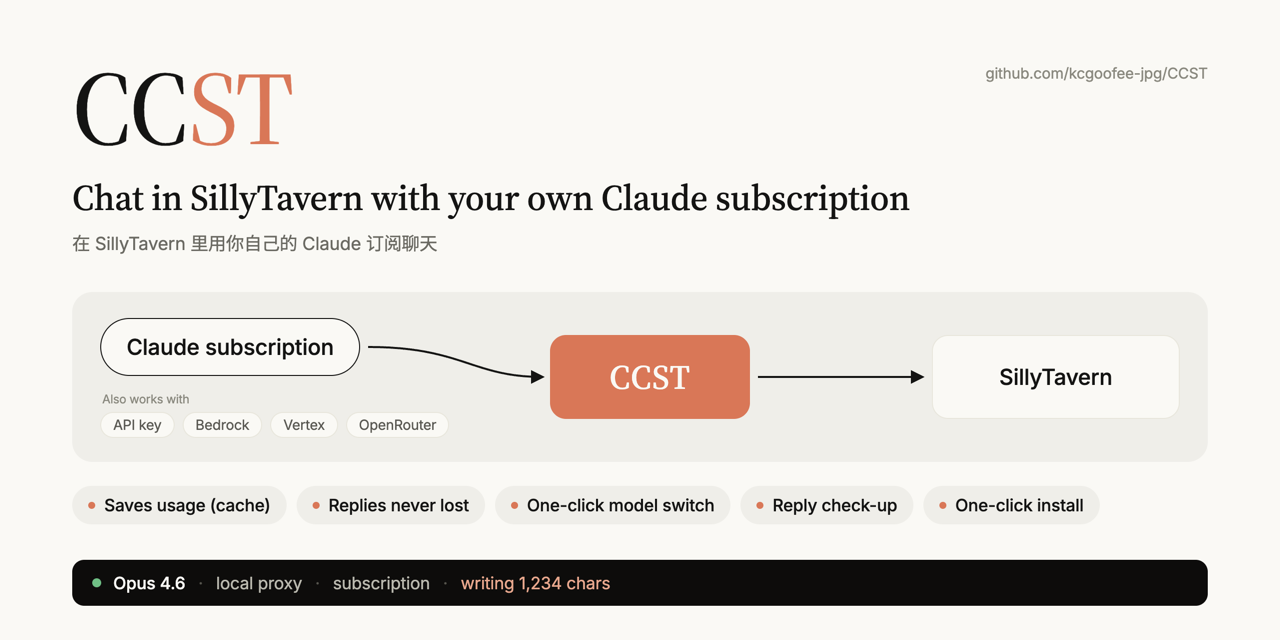
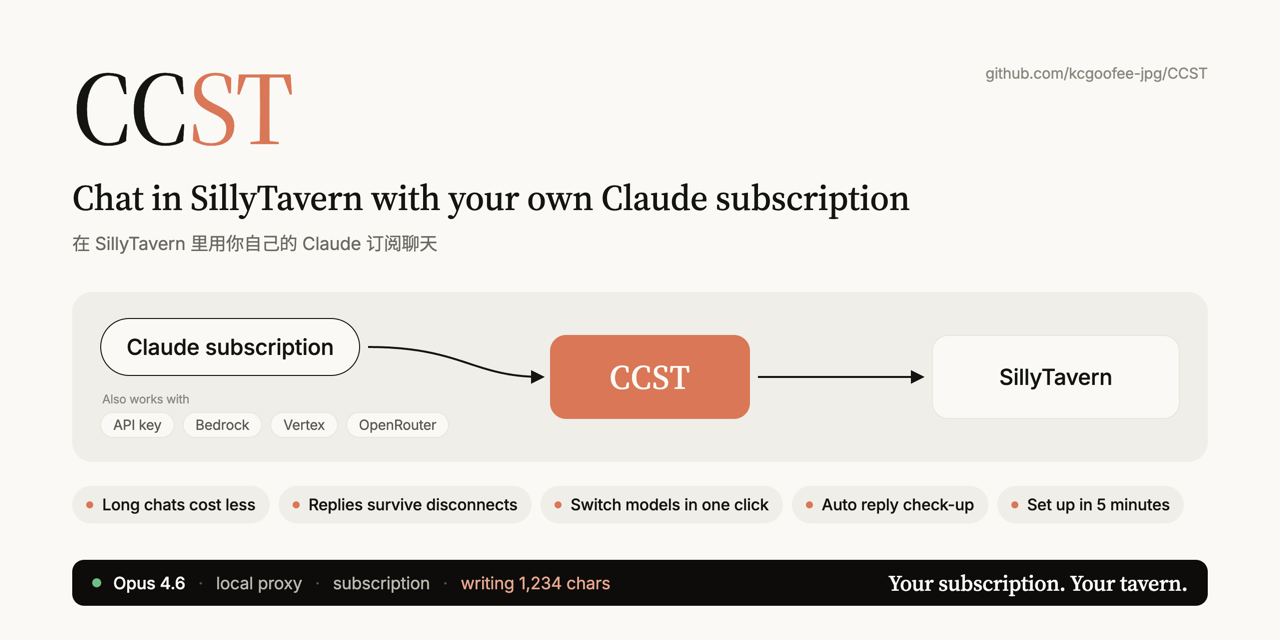
docs(cover): v4 特性标签改为并列的收益短语，状态栏右侧加口号；README 特性网格同步

Changed region(s): [[0.0625, 0.7812, 0.9062, 0.8125], [0.6875, 0.9062, 0.9375, 0.9375]]

diff --git a/docs/assets/cover.html b/docs/assets/cover.html
@@ -23,13 +23,14 @@ svg.arrows{position:absolute;left:0;top:0;width:1136px;height:170px}
 .node{position:absolute;top:43px;height:84px;border-radius:16px;display:flex;align-items:center;justify-content:center;font-weight:500}
 .ccst{left:478px;width:200px;background:#D97757;color:#FAF9F5;font-family:var(--serif);font-size:34px;letter-spacing:.02em}
 .st{left:860px;width:248px;background:#FAF9F5;border:1px solid #E8E6DC;font-size:22px}
-.chips{position:absolute;left:72px;top:486px;display:flex;gap:10px}
-.chip{padding:9px 16px;border-radius:999px;background:#EFEEE9;font-size:17px;font-weight:500;display:flex;align-items:center}
+.chips{position:absolute;left:72px;top:486px;display:flex;gap:9px;white-space:nowrap}
+.chip{padding:9px 14px;border-radius:999px;background:#EFEEE9;font-size:16px;font-weight:500;display:flex;align-items:center}
 .chip:before{content:"";width:7px;height:7px;border-radius:50%;background:#D97757;margin-right:9px}
 .bar{position:absolute;left:72px;right:72px;bottom:34px;height:46px;border-radius:12px;background:#0D0C0B;display:flex;align-items:center;padding:0 20px;font-size:17px;color:#b9b8ae}
 .bar i{font-style:normal;color:#55544d;margin:0 13px}
 .bar .m{color:#FAF9F5;font-weight:500}
 .bar .w{color:#E8A78D}
+.slogan{margin-left:auto;font-family:var(--serif);font-size:22px;font-weight:500;color:#FAF9F5;letter-spacing:-.01em}
 .dot{width:9px;height:9px;border-radius:50%;background:#6FBF85;margin-right:12px}
 </style></head><body><div class="wrap">
 <div class="url">github.com/kcgoofee-jpg/CCST</div>
@@ -49,8 +50,8 @@ svg.arrows{position:absolute;left:0;top:0;width:1136px;height:170px}
 <div class="bar" id="bar"></div>
 </div>
 <script>
-const T={zh:{tag:"在 SillyTavern 里用你自己的 Claude 订阅聊天",sub:"Chat in SillyTavern with your own Claude subscription",main:"Claude 订阅",cap:"也支持",sec:["API 密钥","Bedrock","Vertex","OpenRouter"],one:false,st:"SillyTavern 酒馆",chips:["省额度（缓存）","回复不丢","一键切模型","回复体检","一键安装"],bar:["Opus 4.6","本机代理","订阅","写作中 1,234 字"]},
-en:{tag:"Chat in SillyTavern with your own Claude subscription",sub:"在 SillyTavern 里用你自己的 Claude 订阅聊天",main:"Claude subscription",cap:"Also works with",sec:["API key","Bedrock","Vertex","OpenRouter"],one:false,st:"SillyTavern",chips:["Saves usage (cache)","Replies never lost","One-click model switch","Reply check-up","One-click install"],bar:["Opus 4.6","local proxy","subscription","writing 1,234 chars"]}};
+const T={zh:{tag:"在 SillyTavern 里用你自己的 Claude 订阅聊天",sub:"Chat in SillyTavern with your own Claude subscription",main:"Claude 订阅",cap:"也支持",sec:["API 密钥","Bedrock","Vertex","OpenRouter"],one:false,st:"SillyTavern 酒馆",chips:["长聊更省额度","断线回复不丢","一键切换模型","回复自动体检","五分钟装好"],slogan:"你的订阅，你的酒馆。",bar:["Opus 4.6","本机代理","订阅","写作中 1,234 字"]},
+en:{tag:"Chat in SillyTavern with your own Claude subscription",sub:"在 SillyTavern 里用你自己的 Claude 订阅聊天",main:"Claude subscription",cap:"Also works with",sec:["API key","Bedrock","Vertex","OpenRouter"],one:false,st:"SillyTavern",chips:["Long chats cost less","Replies survive disconnects","Switch models in one click","Auto reply check-up","Set up in 5 minutes"],slogan:"Your subscription. Your tavern.",bar:["Opus 4.6","local proxy","subscription","writing 1,234 chars"]}};
 const q=new URLSearchParams(location.search).get("lang");
 const L=(q==="zh"||q==="en")?q:((navigator.language||"").toLowerCase().startsWith("zh")?"zh":"en");
 const t=T[L];document.documentElement.lang=L==="zh"?"zh-CN":"en";
@@ -58,5 +59,5 @@ const $=id=>document.getElementById(id);
 $("tag").textContent=t.tag;$("sub").textContent=t.sub;$("main").textContent=t.main;$("cap").textContent=t.cap;$("st").textContent=t.st;
 $("sec").innerHTML=t.sec.map(s=>"<span>"+s+"</span>").join("");
 $("chips").innerHTML=t.chips.map(s=>'<div class="chip">'+s+"</div>").join("");
-const b=t.bar;$("bar").innerHTML='<span class="dot"></span><span class="m">'+b[0]+"</span><i>·</i>"+b[1]+"<i>·</i>"+b[2]+'<i>·</i><span class="w">'+b[3]+"</span>";
+const b=t.bar;$("bar").innerHTML='<span class="dot"></span><span class="m">'+b[0]+"</span><i>·</i>"+b[1]+"<i>·</i>"+b[2]+'<i>·</i><span class="w">'+b[3]+'</span><span class="slogan">'+t.slogan+"</span>";
 </script></body></html>

diff --git a/README.en.md b/README.en.md
@@ -29,9 +29,9 @@ SillyTavern on its own only talks to pay-per-token APIs. CCST is a SillyTavern p
 
 | | |
 | --- | --- |
-| 🎟 **Use your subscription**<br>Claude Pro / Max, no separate API credit; API keys, Bedrock, Vertex and OpenRouter work too | 💰 **Saves usage**<br>In long chats only the new part of each turn is processed; the rest comes from the prompt cache |
-| 🛟 **Replies don't get lost**<br>Close the browser or drop the connection; the reply still finishes and is filled in later | 🔀 **One-click model switch**<br>Opus 5.5 / Opus 4.6 / Sonnet 5.5, thinking depth on demand |
-| 🩺 **Reply check-up**<br>Length, banned words, repeated paragraphs, character-card issues | 📦 **One-click install**<br>No terminal, no file editing; double-click |
+| 🎟 **Use your subscription**<br>Claude Pro / Max, no separate API credit; API keys, Bedrock, Vertex and OpenRouter work too | 💰 **Long chats cost less**<br>In long chats only the new part of each turn is processed; the rest comes from the prompt cache |
+| 🛟 **Replies survive disconnects**<br>Close the browser or drop the connection; the reply still finishes and is filled in later | 🔀 **Switch models in one click**<br>Opus 5.5 / Opus 4.6 / Sonnet 5.5, thinking depth on demand |
+| 🩺 **Auto reply check-up**<br>Length, banned words, repeated paragraphs, character-card issues | 📦 **Set up in 5 minutes**<br>No terminal, no file editing; double-click |
 
 The panel also shows your quota and per-turn usage.
 

diff --git a/README.md b/README.md
@@ -27,9 +27,9 @@
 
 | | |
 | --- | --- |
-| 🎟 **用订阅聊天**<br>Claude Pro / Max 直接用，不用另买额度；API 密钥、Bedrock、Vertex、OpenRouter 也行 | 💰 **自动省额度**<br>长聊天每轮只重算新内容，其余走缓存 |
-| 🛟 **回复不丢**<br>浏览器关了、断网了，回复照样写完，回来自动补上 | 🔀 **一键切模型**<br>Opus 5.5 / Opus 4.6 / Sonnet 5.5，思考深度随时调 |
-| 🩺 **回复体检**<br>字数、禁词、重复段落、角色卡问题，发送前后都查 | 📦 **一键安装**<br>不开终端、不改文件，双击就装好 |
+| 🎟 **用订阅聊天**<br>Claude Pro / Max 直接用，不用另买额度；API 密钥、Bedrock、Vertex、OpenRouter 也行 | 💰 **长聊更省额度**<br>长聊天每轮只重算新内容，其余走缓存 |
+| 🛟 **断线回复不丢**<br>浏览器关了、断网了，回复照样写完，回来自动补上 | 🔀 **一键切换模型**<br>Opus 5.5 / Opus 4.6 / Sonnet 5.5，思考深度随时调 |
+| 🩺 **回复自动体检**<br>字数、禁词、重复段落、角色卡问题，发送前后都查 | 📦 **五分钟装好**<br>不开终端、不改文件，双击就装好 |
 
 面板里还能看订阅额度和每轮用量。
 
